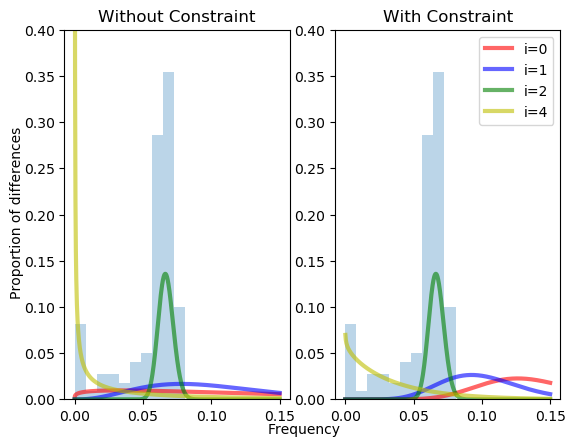
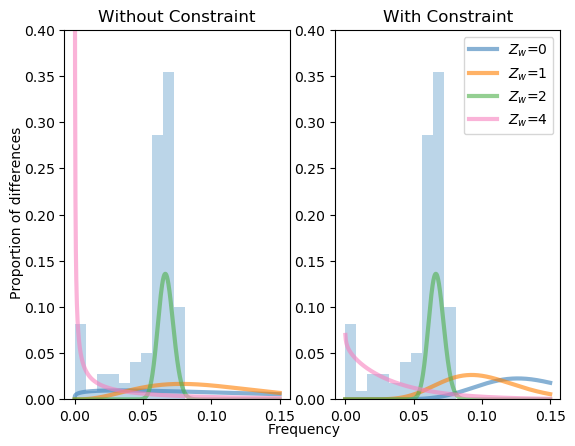
colors

Changed region(s): [[0.1183, 0.0583, 0.5026, 0.9036], [0.5913, 0.6121, 0.9757, 0.9036], [0.7983, 0.0874, 0.9757, 0.2915]]

diff --git a/supplementary_info/beta_bnds.py b/supplementary_info/beta_bnds.py
@@ -639,22 +639,22 @@ def plot_betas(dfile, tfile, pair, thresh, rel, libraries, listf, Afile, pfile, 
 
         a=betas[2]
         b=betas[3]
-        ax[i].plot(x, beta.pdf(x, a, b)/533.33,'r-', lw=3, alpha=0.6, label="$Z_w$=0")
+        ax[i].plot(x, beta.pdf(x, a, b)/533.33,'#377eb8', lw=3, alpha=0.6, label="$Z_w$=0")
         #plt.hist(diff/total,alpha=0.3)
 
         a=betas[0]
         b=betas[1]
-        ax[i].plot(x, beta.pdf(x, a, b)/533.33,'b-', lw=3, alpha=0.6, label="$Z_w$=1")
+        ax[i].plot(x, beta.pdf(x, a, b)/533.33,'#ff7f00', lw=3, alpha=0.6, label="$Z_w$=1")
 
         a=betas[4]
         b=betas[5]
-        ax[i].plot(x, beta.pdf(x, a, b)/533.33,'g-', lw=3, alpha=0.6, label="$Z_w$=2")
+        ax[i].plot(x, beta.pdf(x, a, b)/533.33,'#4daf4a', lw=3, alpha=0.6, label="$Z_w$=2")
         #plt.hist(diff/total,alpha=0.3)
 
         a=betas[6]
         b=betas[7]
 
-        ax[i].plot(x, beta.pdf(x, a, b)/533.33,'y-', lw=3, alpha=0.6, label="$Z_w$=4")
+        ax[i].plot(x, beta.pdf(x, a, b)/533.33,'#f781bf', lw=3, alpha=0.6, label="$Z_w$=4")
         ax[i].hist(diff/total,alpha=0.3,weights=np.ones(len(total)) / len(total))
         ax[i].set_ylim(0,0.4)
 
